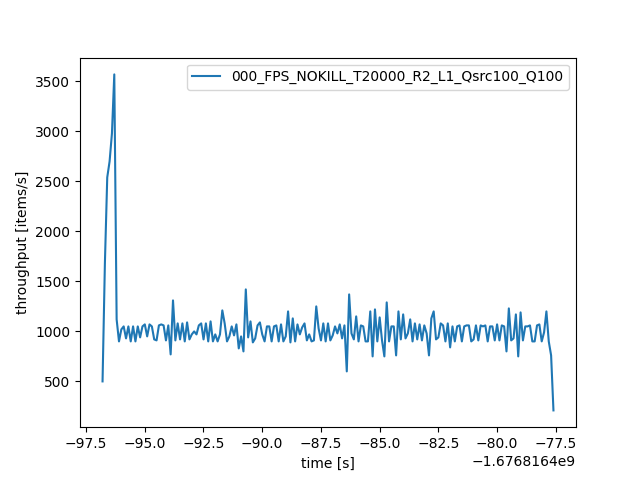
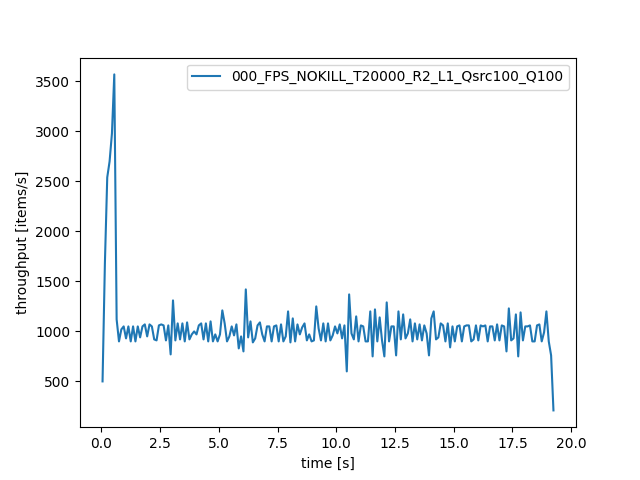
fix latency tss

Changed region(s): [[0.0938, 0.9062, 0.9375, 0.9688]]

diff --git a/scripts/sys-plot.py b/scripts/sys-plot.py
@@ -194,8 +194,8 @@ def plotThroughput(*datas: StatsData, ylim: int | None = None, imgFile: str | No
     for ts, name in data.events:
       if name == 'KILLED':
         color, style = getEventColorAndStyle(name)
-        plt.axvline(x=getTs(ts, data.fts), color=color, linestyle=style)
-    plt.plot([getTs(ts + (wLen/2), data.fts) for ts in tsRange], speed, label=data.name)
+        plt.axvline(x=getTs(ts, data.sinkts), color=color, linestyle=style)
+    plt.plot([getTs(ts + (wLen/2)) for ts in tsRange], speed, label=data.name)
   plt.xlabel('time [s]')
   plt.ylabel('throughput [items/s]')
   if ylim is not None:
